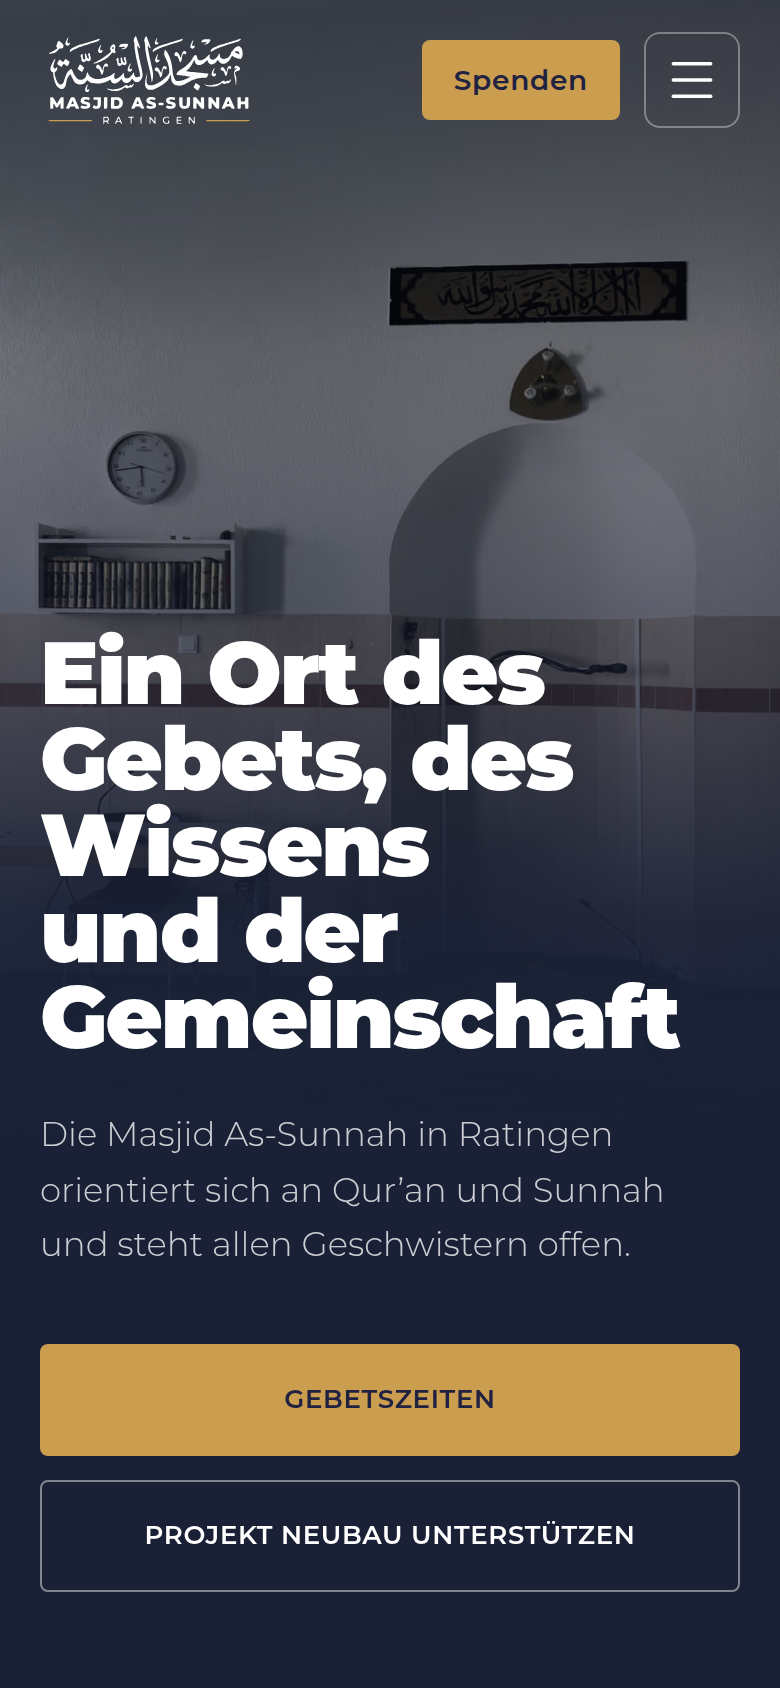
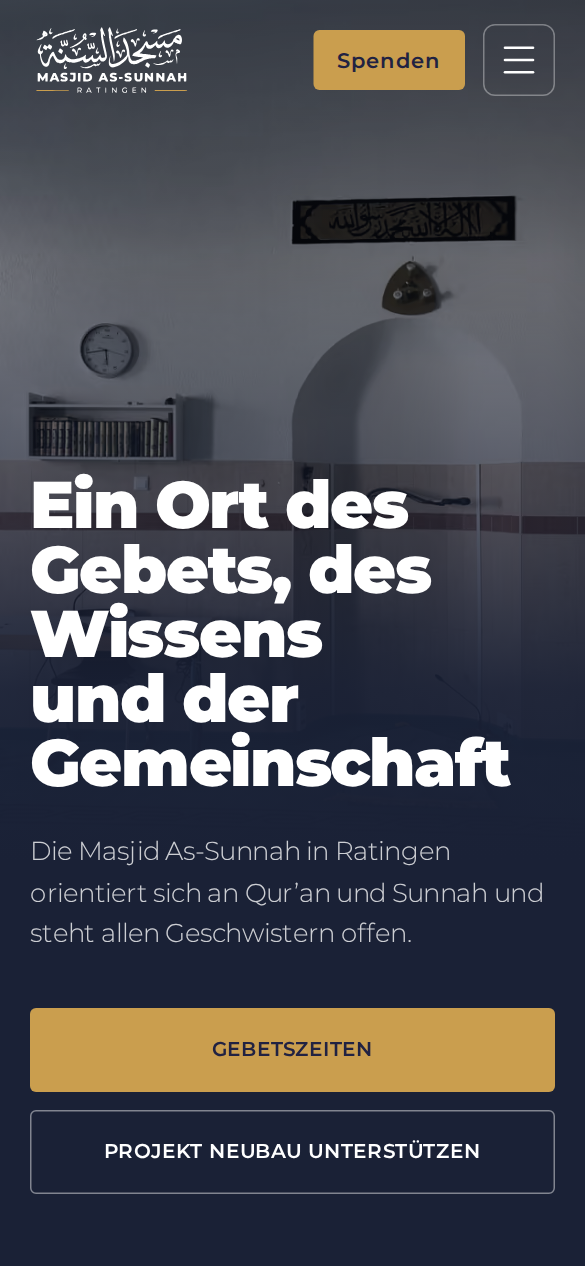
Hero: Querformat-Foto ab Tablet-Breite, Hochformat nur auf dem Handy
Claude-Session: https://claude.ai/code/session_01EuK36WCbY4YasYgtyrW1Dk

diff --git a/src/components/Hero.tsx b/src/components/Hero.tsx
@@ -5,7 +5,8 @@ import { hero } from "@/content/hero";
 import images from "@/content/hero-images.json";
 import { asset } from "@/lib/base";
 
-const srcSet = (ext: "avif" | "webp") => images.widths.map((w) => `${asset(`/images/hero-${w}.${ext}`)} ${w}w`).join(", ");
+const srcSet = (ext: "avif" | "webp", wide = false) => (wide ? images.wide : images).widths.map((w) => `${asset(`/images/hero${wide ? "-wide" : ""}-${w}.${ext}`)} ${w}w`).join(", ");
+const WIDE = "(min-width: 768px)"; // ab Tablet das Querformat, darunter das Hochformat
 const SIZES = "100vw";
 
 // Farbschichten laut Vorgabe. Das Foto selbst bleibt unbearbeitet, alles per CSS.
@@ -15,12 +16,13 @@ const GRADIENT =
 
 export function Hero() {
   // Hero-Bild hat Priorität: früh laden, kein Lazy-Loading.
-  preload(asset(`/images/hero-${images.widths[images.widths.length - 1]}.avif`), {
-    as: "image",
-    imageSrcSet: srcSet("avif"),
-    imageSizes: SIZES,
-    fetchPriority: "high",
-    type: "image/avif",
+  // Hero-Bild hat Priorität: früh laden, kein Lazy-Loading. Je Bildschirm nur die passende Variante.
+  const last = (w: readonly number[]) => w[w.length - 1];
+  preload(asset(`/images/hero-${last(images.widths)}.avif`), {
+    as: "image", imageSrcSet: srcSet("avif"), imageSizes: SIZES, fetchPriority: "high", type: "image/avif", media: `not all and ${WIDE}`,
+  } as Parameters<typeof preload>[1]);
+  preload(asset(`/images/hero-wide-${last(images.wide.widths)}.avif`), {
+    as: "image", imageSrcSet: srcSet("avif", true), imageSizes: SIZES, fetchPriority: "high", type: "image/avif", media: WIDE,
   } as Parameters<typeof preload>[1]);
 
   const vars = {
@@ -39,6 +41,8 @@ export function Hero() {
       {/* Bildfläche: Foto + Blaustich + Verlauf. Läuft unten in #1A2136 aus. */}
       <div className="absolute inset-x-0 top-0 -z-10 h-[var(--hero-h-m)] lg:h-[var(--hero-h-d)]">
         <picture>
+          <source media={WIDE} type="image/avif" srcSet={srcSet("avif", true)} sizes={SIZES} />
+          <source media={WIDE} type="image/webp" srcSet={srcSet("webp", true)} sizes={SIZES} />
           <source type="image/avif" srcSet={srcSet("avif")} sizes={SIZES} />
           <source type="image/webp" srcSet={srcSet("webp")} sizes={SIZES} />
           {/* eslint-disable-next-line @next/next/no-img-element */}
@@ -51,7 +55,7 @@ export function Hero() {
             loading="eager"
             decoding="async"
             style={{ filter: FILTER }}
-            className="absolute inset-0 h-full w-full object-cover object-[var(--hero-pos-m)] lg:object-[var(--hero-pos-d)]"
+            className="absolute inset-0 h-full w-full object-cover object-[var(--hero-pos-m)] md:object-[var(--hero-pos-d)]"
           />
         </picture>
         <div aria-hidden className="absolute inset-0 bg-hero-ink opacity-35 mix-blend-multiply" />

diff --git a/TODO.md b/TODO.md
@@ -4,7 +4,7 @@ Stand: 5.10.2026. Nur was wirklich noch offen ist.
 
 ## Fotos
 - [ ] **Neubau-Render** (Querformat, volle Auflösung): Startseite und `/neubau/` zeigen bis dahin einen sichtbaren Platzhalter („TODO: echtes Foto“). Einsetzen über `<Photo src=… />` in `src/app/page.tsx` und `src/app/neubau/page.tsx`.
-- [ ] **Hero-Bild:** Das gelieferte Foto ist ein Hochformat (1450 × 2576 px). Auf Desktop wird daraus ein schmaler Ausschnitt. Besser wäre ein Querformat mit mindestens 2400 px Breite. Ersetzen: `quellen/fotos/hero.jpg`, alle Größen entstehen beim Build. Fokuspunkt und Bildhöhe: `src/content/hero.ts`.
+- [ ] **Hero-Bild (optional):** Ab Tablet-Breite (768 px) nutzt der Hero das Querformat-Foto des Gebetsraums (`quellen/fotos/gebetsraum.jpg`), auf dem Handy das Hochformat (`quellen/fotos/hero.jpg`). Ein eigenes, besonders gutes Querformat-Foto mit mindestens 2400 px Breite könnte `gebetsraum.jpg` für den Hero ersetzen. Fokuspunkt und Bildhöhe: `src/content/hero.ts`.
 - [ ] `aussen-eingang.jpg` wurde nicht geliefert.
 - [ ] Keine erkennbaren Personen und keine Kinder auf der Seite, solange das nicht ausdrücklich bestätigt ist.
 

diff --git a/quellen/README.md b/quellen/README.md
@@ -3,7 +3,7 @@
 Rohmaterial, das von der Gemeinde geliefert wurde. Nicht Teil der Website, nur zur Aufbewahrung.
 
 - `logos-paket-v2/` Logo-Paket (SVG und PNG, Icons, Open-Graph-Bild). Die Website nutzt Kopien in `public/`.
-- `fotos/gebetsraum.jpg` Original des Gebetsraum-Fotos (2576 × 1450 px). Die Website nutzt daraus erzeugte WebP-Größen in `public/images/`.
+- `fotos/gebetsraum.jpg` Original des Gebetsraum-Fotos (2576 × 1450 px). Die Website nutzt daraus erzeugte WebP-Größen in `public/images/`. Dient auch als Hero-Bild ab 768 px Breite (Querformat).
 - `fotos/gebetsnische.jpg`, `fotos/saeulen.jpg`, `fotos/minbar.jpg`, `fotos/quran-regal.jpg` Fotos für die Galerie „Einblicke in die Moschee“ auf der Startseite (ebenfalls als WebP in `public/images/`).
 - `fotos/unterrichtsraum.jpg` Unterrichtsraum (2576 × 1450 px). Auf der Website als `public/images/unterrichtsraum.jpg` (1600 px) und WebP in 800/1600 px: in der Galerie und oben auf `/unterricht/`.
 - `fotos/unterrichtsraum-2.jpg` Zweiter Unterrichtsraum (2576 × 1450 px). Auf der Website etwas aufgehellt als JPG (1600 px) und WebP in 800/1600 px, in der Galerie.
